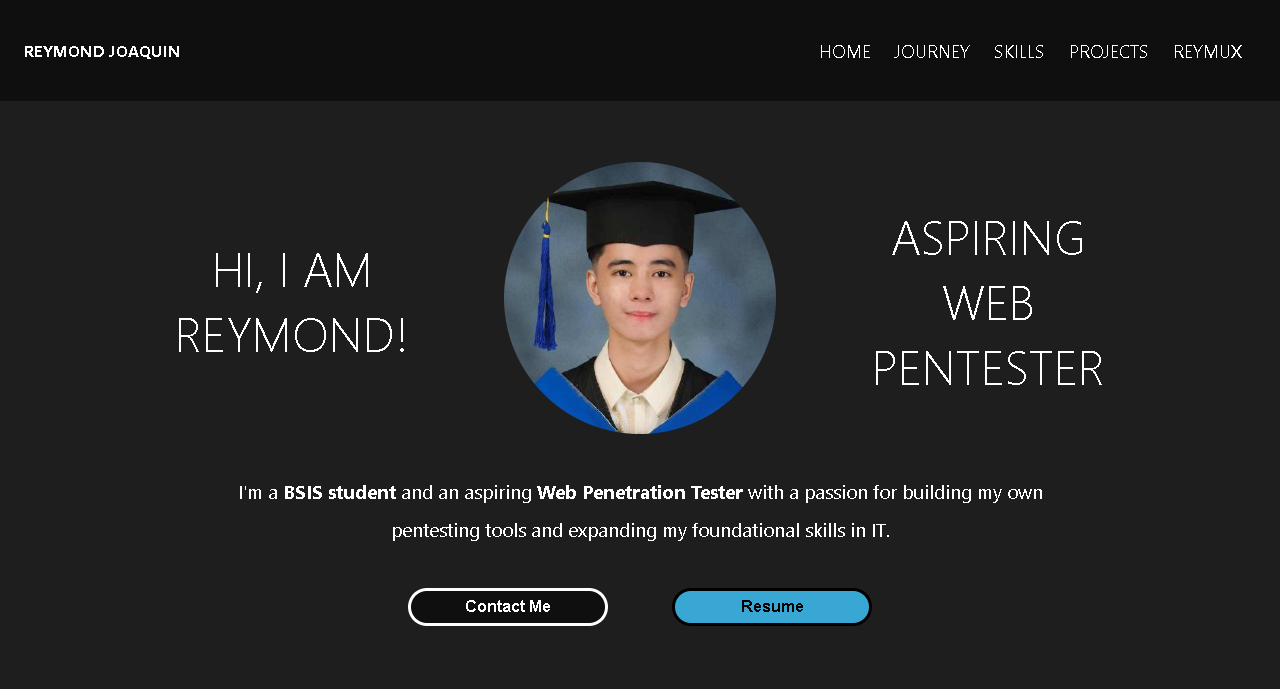
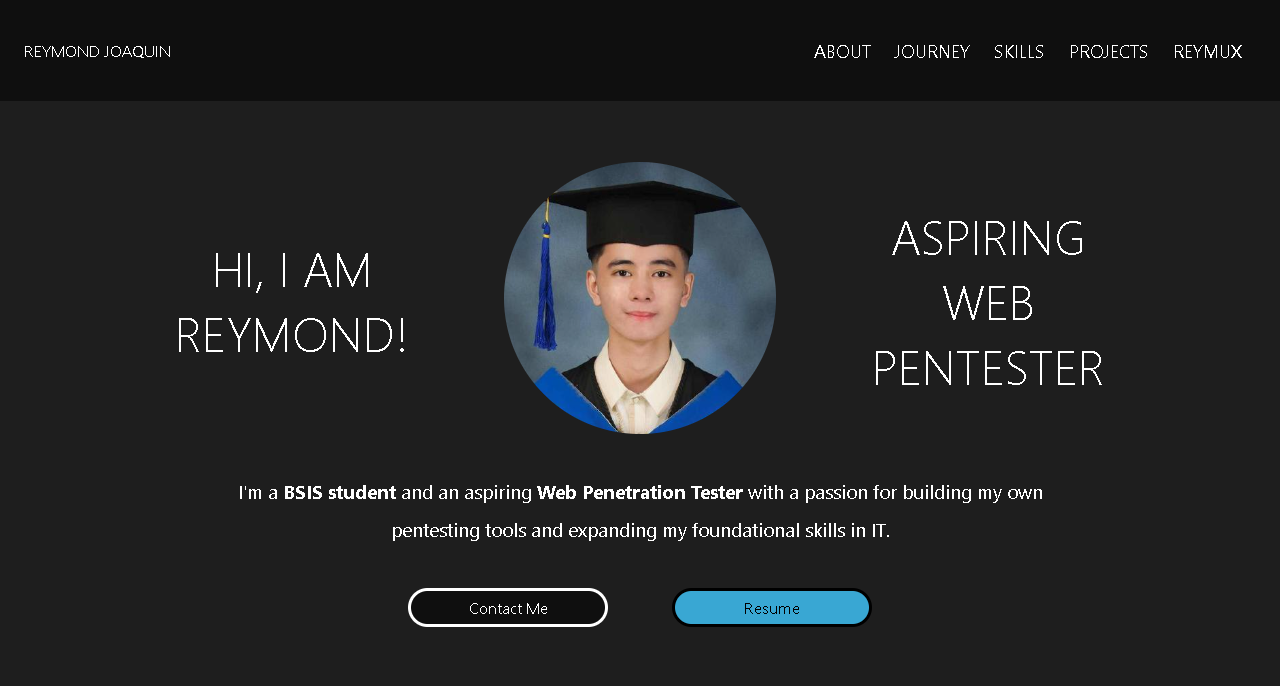
v1.1.1: Adjust Mobile Hero section padding | Rephrase Subheading

diff --git a/css/style.css b/css/style.css
@@ -29,8 +29,7 @@ body {
     height: 100%;
     padding-top: 12%;
 
-    font-family: Arial, Helvetica, sans-serif; 
-    font-family: 'Segoe UI';
+    font-family: 'Segoe UI', Arial, sans-serif; 
 
     background-color: rgb(15, 15, 15);
     user-select: none;
